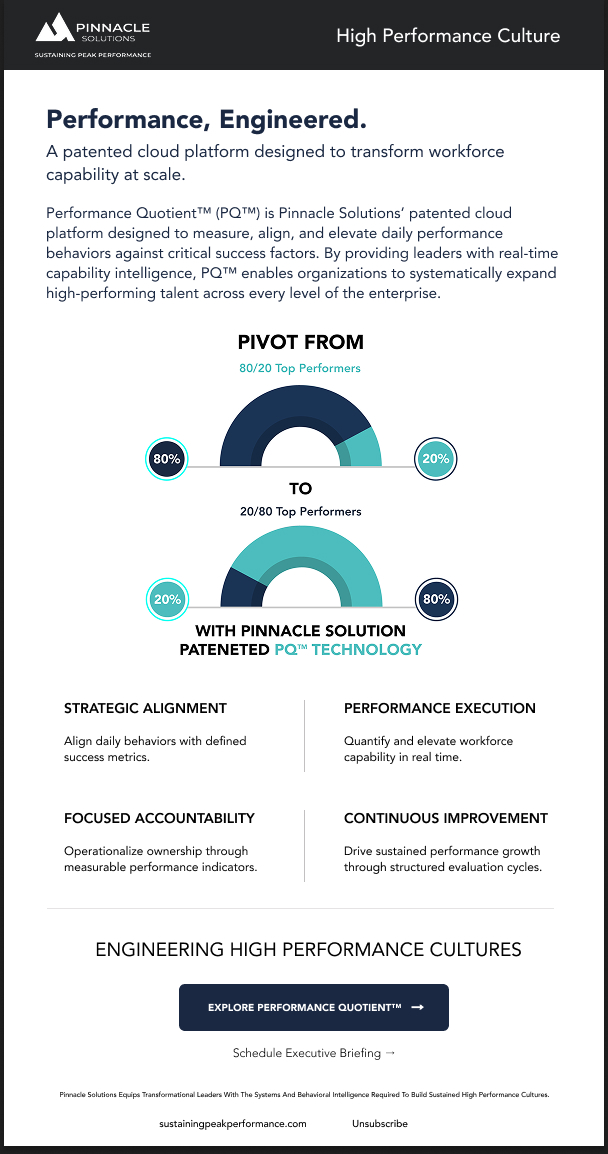
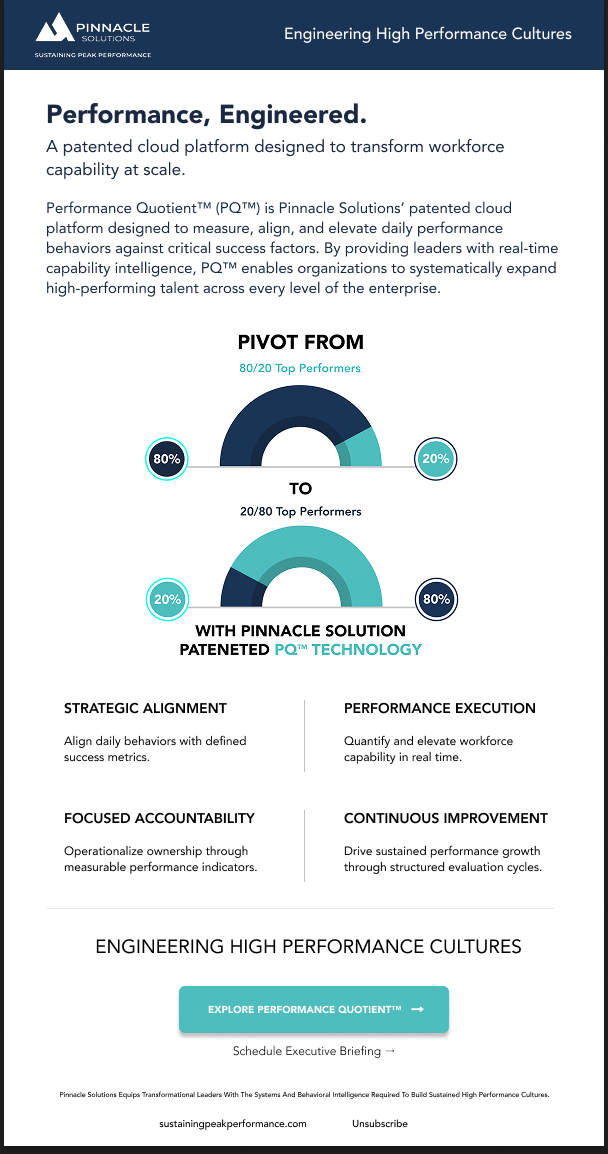
Change all hero background colors to #050505

Changed region(s): [[0.0625, 0.0936, 0.9375, 0.2808], [0.0, 0.0, 1.0, 0.0624], [0.1562, 0.8111, 0.875, 0.9359]]

diff --git a/client/src/app/components/print-detail/print-detail.scss b/client/src/app/components/print-detail/print-detail.scss
@@ -164,12 +164,10 @@
     }
 
     &.detail-hero--dark {
-      background: #0B0F14; /* dark base */
+      background: #050505; /* dark base */
       color: rgba(255, 255, 255, 0.92);
 
       &.detail-hero--pinnacle {
-        background: #113559;
-
         .hero-watermark {
           background-image: url('/assets/projects/pinnacle-solutions/pinnacle-hero-background.svg');
           background-position: -210px center;
@@ -178,8 +176,6 @@
       }
 
       &.detail-hero--farmland {
-        background: #10202f;
-
         .hero-logo {
           height: clamp(53px, 8vw, 144px);
         }
@@ -191,10 +187,8 @@
       }
 
       &.detail-hero--service-course {
-        background: #005071;
-
         .hero-logo {
-          height: clamp(65px, 10vw, 180px);
+          height: clamp(100px, 16vw, 280px);
         }
 
         .hero-watermark {
@@ -204,8 +198,6 @@
       }
 
       &.detail-hero--sorella {
-        background: #0d2340;
-
         .hero-watermark {
           background-image: url('/assets/projects/sorella/sorella-hero-bacground-image.jpg');
           opacity: .1;
@@ -213,8 +205,6 @@
       }
 
       &.detail-hero--clinical {
-        background: linear-gradient(90deg, #0c233d, #040b12);
-
         .hero-logo {
           height: clamp(65px, 10vw, 160px);
         }
@@ -240,16 +230,25 @@
         }
       }
 
+      &.detail-hero--soffra {
+        .hero-logo {
+          height: clamp(35px, 6vw, 100px);
+        }
+
+        .hero-watermark {
+          background-image: url('/assets/projects/soffra-brand/SOFFRA-contour-lines.svg');
+          opacity: .1;
+        }
+      }
+
       .hero-watermark {
         position: absolute;
         top: 0;
         left: 0;
         width: 100%;
         height: 100%;
-        background-image: url('/assets/projects/soffra-brand/SOFFRA-contour-lines.svg');
         background-size: cover;
         background-position: center;
-        opacity: .1; // Subtle overlay
         pointer-events: none;
         z-index: 1;
       }
@@ -273,8 +272,8 @@
     }
 
     &.detail-hero--light {
-      background: #f4f4f4;
-      color: rgba(0, 0, 0, 0.85);
+      background: #050505;
+      color: rgba(255, 255, 255, 0.92);
 
       &.detail-hero--progressive {
         .hero-logo {
@@ -302,8 +301,8 @@
       }
 
       .back-btn {
-        color: rgba(0, 0, 0, 0.65);
-        &:hover { color: #000; }
+        color: rgba(255, 255, 255, 0.82);
+        &:hover { color: #fff; }
       }
 
       .meta {
@@ -312,11 +311,11 @@
       }
 
       .title {
-        color: #111;
+        color: #fff;
       }
 
       .lead {
-        color: rgba(0, 0, 0, 0.65);
+        color: rgba(255, 255, 255, 0.82);
       }
     }
   }

diff --git a/client/src/app/components/print-detail/print-detail.html b/client/src/app/components/print-detail/print-detail.html
@@ -12,7 +12,8 @@
         [class.detail-hero--sorella]="p.title === 'Sorella Home Solutions'"
         [class.detail-hero--clinical]="p.title === 'Clinical Resources'"
         [class.detail-hero--flourrish]="p.title === 'Flourrish Environmental Funding'"
-        [class.detail-hero--progressive]="p.title === 'Progressive Insurance'">
+        [class.detail-hero--progressive]="p.title === 'Progressive Insurance'"
+        [class.detail-hero--soffra]="p.title === 'SOFFRA.io'">
         @if (p.title === 'SOFFRA.io' || p.title === 'Pinnacle Solutions' || p.title === 'The Service Course' || p.title === 'Sorella Home Solutions' || p.title === 'Farmland Consulting' || p.title === 'Clinical Resources' || p.title === 'Flourrish Environmental Funding' || p.title === 'Progressive Insurance') {
           <div class="hero-watermark" aria-hidden="true"></div>
         }

diff --git a/client/src/app/components/findash-hero/findash-hero.scss b/client/src/app/components/findash-hero/findash-hero.scss
@@ -1,4 +1,4 @@
-$hero-bg: #0B1F33;         
+$hero-bg: #050505;         
 $hero-accent: #29E3D0;     
 $hero-text: #EAF2FF;
 $hero-muted: rgba(234,242,255,.75);
